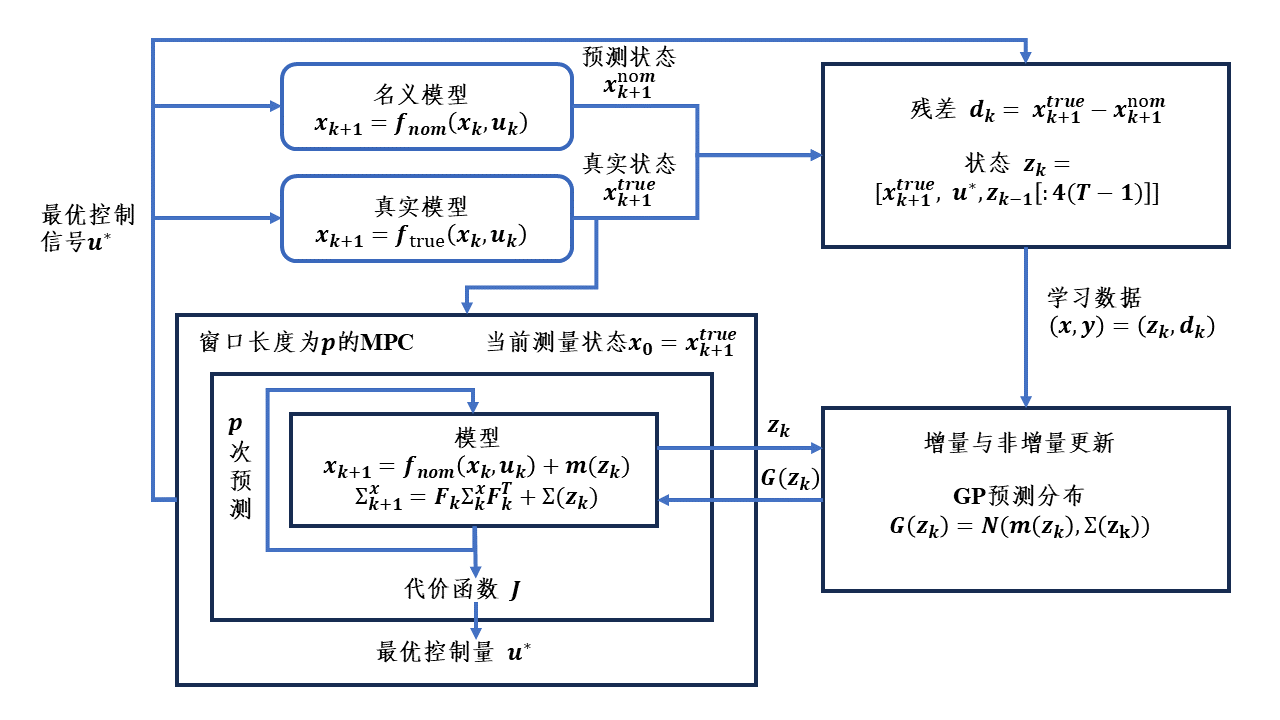
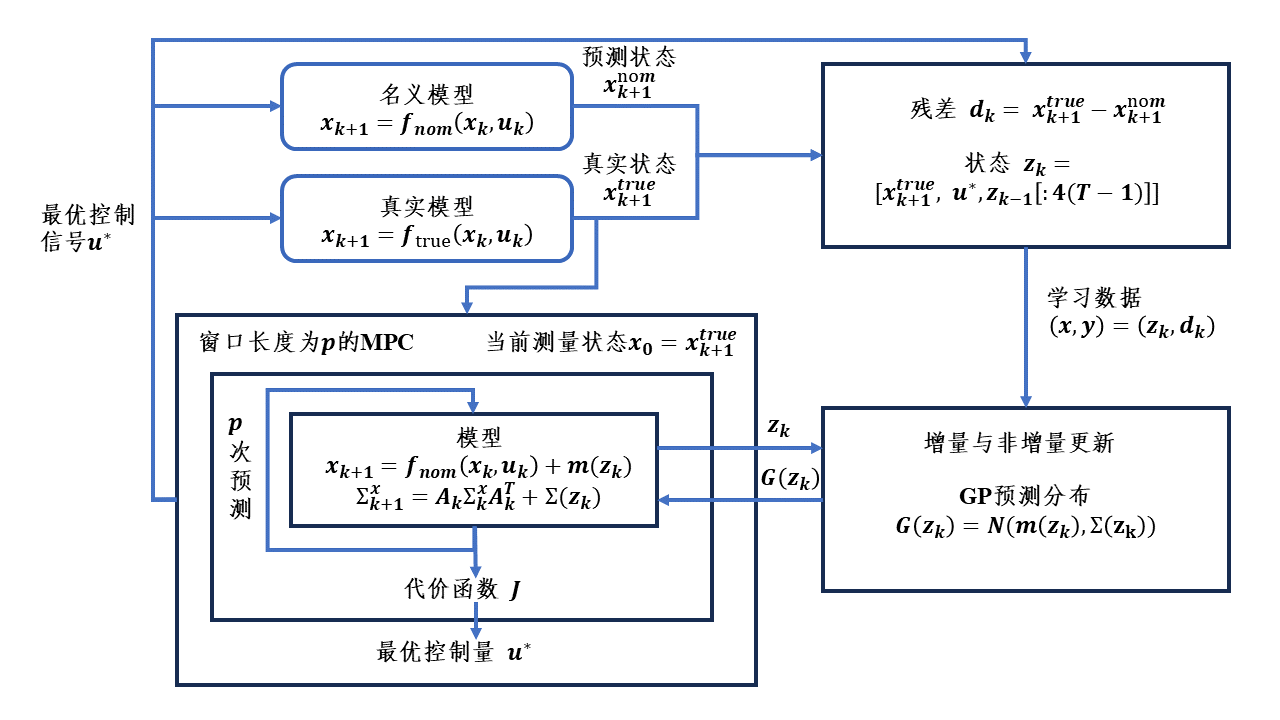
Version 1.1

diff --git a/body/graduate/chapter_3.tex b/body/graduate/chapter_3.tex
@@ -665,11 +665,15 @@ FITC 略优，这与 FITC 对角修正项能更好地保留训练点处的预测
 
 \subsection{在线学习算法效果对比}
 
-本小节对四种高斯过程在线学习方法进行系统性对比实验，包括：标准非在线高斯过程（Standard GP，作为基线）、本文提出的OSVGP算
-法、Bijl~\cite{bijl_2015_online}提出的基于在线FITC/PITC近似的序贯更新算法，以及Gómez-Bombarelli~\cite{gomez_asgp}等人提出的自适应高
-斯过程（AGP）算法。实验旨在从预测精度与计算效率两个维度评估OSVGP算法的在线学习性能。所有计时结果均为执行一百次取平均值。
-值得注意的是本文中AGP的非增量更新算法并非真正的非增量更新，而只是说诱导点是非增量的，其算法还是会增量更新历史数据。AGP算法
-的遗忘参数$\lambda$设置为0.99，诱导点扩充阈值参数$\epsilon=0.01$。
+本小节对四种高斯过程在线学习方法进行系统性对比实验，包括：标准非在线高斯过程（Standard GP，作为基线）、本文提出的OSVGP算法、Bijl\cite{bijl_2015_online}提出的
+基于在线FITC/PITC近似的序贯更新算法，以及Gómez-Verdejo\cite{gomez_asgp}等人提出的自适应高斯过程（AGP）算法。
+选取上述两种对比方法的原因如下：Bijl方法基于FITC/PITC稀疏近似框架，通过序贯贝叶斯更新实现在线学习，其推断路线与本文基于变分推断（ELBO）的OSVGP有本质区别，可
+作为非变分在线稀疏GP的代表性基线；AGP方法虽源于变分稀疏GP框架，但本文所采用的为其不更新超参数的快速版本，每次新样本到来时仅自适应更新诱导点集合而不执行推断
+迭代，计算开销极低，代表了另一类轻量级在线学习策略。
+更重要的是，两种算法均能在实际部署中满足本系统20\,Hz的实时运行频率需求，因此具有直接的可比性。
+实验旨在从预测精度与计算效率两个维度评估OSVGP算法的在线学习性能。所有计时结果均为执行一百次取平均值。
+值得注意的是，本文中AGP的非增量更新算法并非真正的非增量更新，而只是说诱导点是非增量的，其算法还是会增量更新历史数据。
+AGP算法的遗忘参数~$\lambda$~设置为~$0.99$，诱导点扩充阈值参数~$\epsilon = 0.01$。
 
 \subsubsection{同域非增量更新}
 
@@ -695,7 +699,7 @@ FITC 略优，这与 FITC 对角修正项能更好地保留训练点处的预测
 Standard GP & 4.5299 & 3.5319 & 101.3939 & —      \\
 OSVGP       & 2.3181 & 1.8053 & 46.9220  & \textbf{6.958}  \\
 Bijl        & 2.8124 & 2.1833 & 68.0426  & 7.682  \\
-AGP         & \textbf{1.1860} & \textbf{0.9857} & \textbf{4.2223}   & 8.142  \\
+AGP         & 1.1860 & 0.9857 & 4.2223   & 8.142  \\
 \bottomrule
 \end{tabular}
 \end{table}

diff --git a/README.md b/README.md
@@ -1,2 +1,7 @@
 TODO LIST:
-1. 补充实物实验的介绍工作
+1. Experiment (Simulation and RealWorld) add description of the track. [x]
+2. Why we choose the Bijl and AGP to compare? [x]
+   1. Because Bijl is Variational, AGP is not, and they all can run in real world (20HZ) as we do
+not need parameter update in real time. (Ask AI)
+3. Polish the paper [ ]
+4. Think about whether to add Gazebo simulation experiment (maybe duplicated) [ ]
